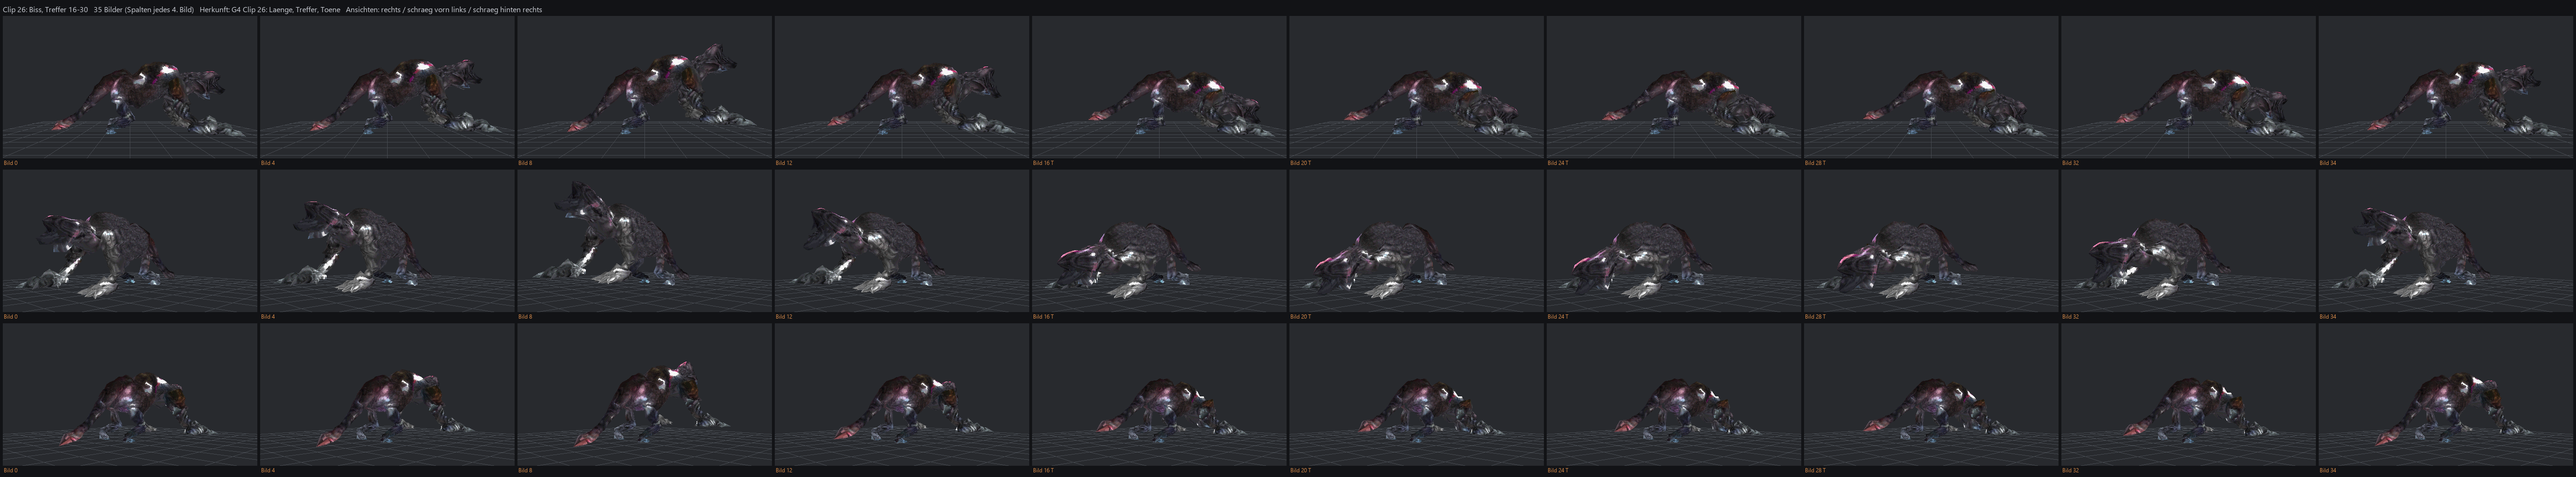
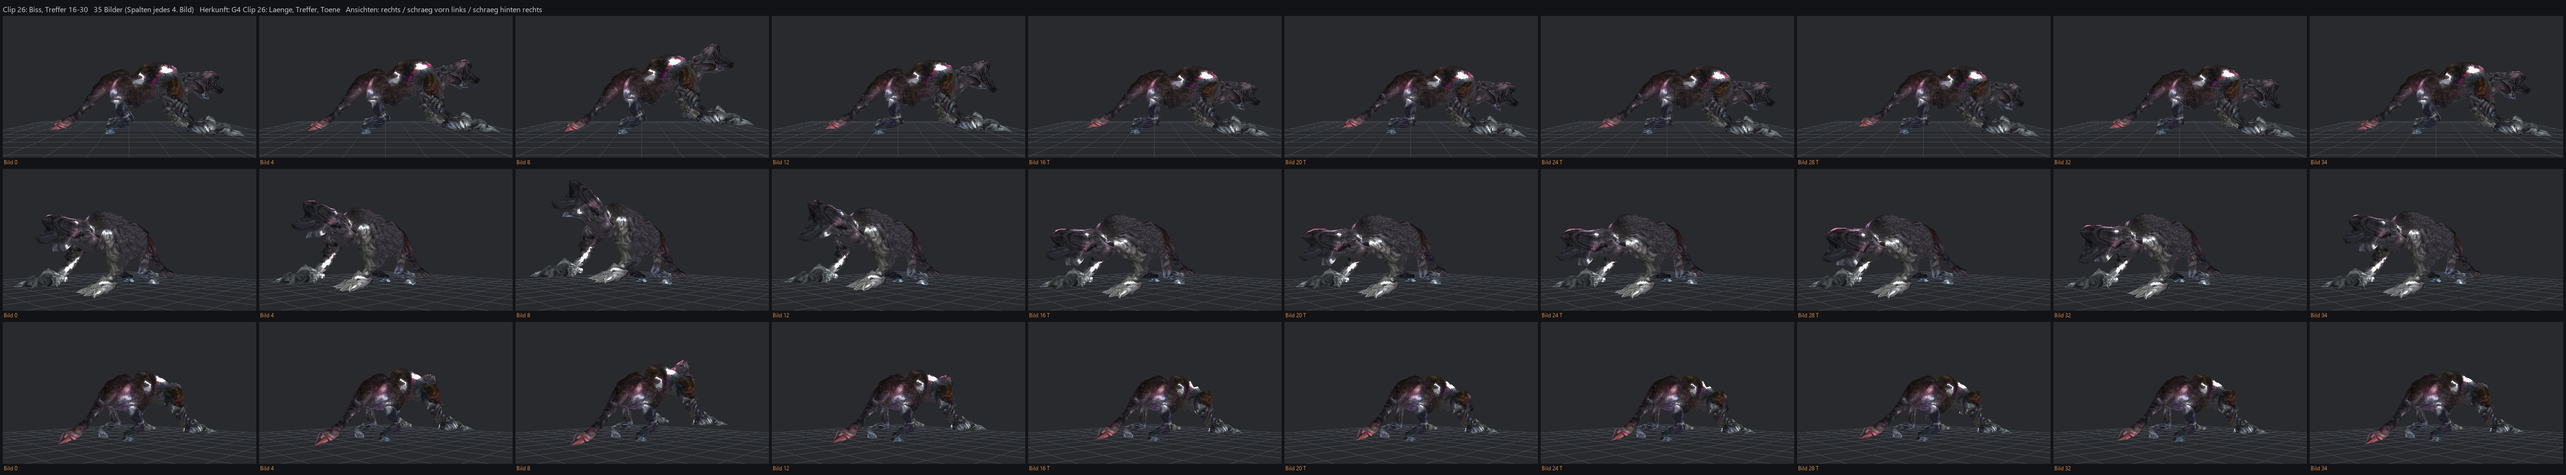
feat(form-s3): Asset mit Sturz/Drohen/Biss-Nachschliff im Spiel, Uebergabepunkt an den G5 benannt
- BAHNSTEIG_FORM.EMD neu aus dem Generator (stufe3/asset = shared_assets/RE2, md5 gleich): Sturz-Clip 12
  kippt hoechstens 22 Grad ueber Pose Bild 2 hinaus und faellt mit Fallkurve; Drohen je Bein eigenes
  Faltfenster (Gleiten 245 -> 23); Biss in Brusthoehe des Spielers (Kiefer y -1460 statt am Boden).
  Alles PORT-WAHL. form_j_posen.h unveraendert (Posen von J und Hoehe im Gehen gleich).
- birkin_formen.c: Uebergabe Riesenform -> G5 als eine Funktion bf_rs_form_ist_draussen (Ende Sturz-
  Clip 12 bzw. Wagenende ohne Riesenform), danach unveraendert Phase 2, re15_bf_morph_zu_g5, s_kam_g5.
  G5-Auftritt, G5-Kamera und enemy_ai_boss_g5.c nicht angefasst (Spur r41/g5auftritt setzt hier an).
- test_birkin_bahnsteig: Drohen Bild 33-38 bis 250 (gemessen 242).
- Sichtbeleg 5090 Sturz im echten Fenster mit dem neuen Asset (stufe3/spiel/5090_leon_3_sturz_detail.png).
- werkzeug.md: Hinweis auf BAHNSTEIG_FORM.
unit_birkin_bahnsteig und unit_birkin_szenen gruen (Bau re15_port/build_s3).

diff --git a/re15_port/engine/src/birkin_formen.c b/re15_port/engine/src/birkin_formen.c
@@ -407,6 +407,18 @@ uint16_t re15_bf_pad(uint16_t pad, uint16_t *pressed)
     return (uint16_t)(0x0800u | 0x8000u);                /* RE15_PAD_BIT_R1 | RE15_PAD_BIT_SQUARE, keine Richtung */
 }
 
+/* UEBERGABEPUNKT Riesenform -> G5 (Stufe 3, analysis/befunde_runde41/form/STUFE3.md Abschnitt 4).
+ * Wird genau einmal aufgerufen, wenn die Form den Wagen verlassen hat: mit der Riesenform am Ende ihres Sturz-Clips 12, ohne sie
+ * (EM30 per RE15_BIRKIN_FORM=original) am Wagenende. Danach laeuft unveraendert Phase 2 (Pause hinter dem Zug) und
+ * re15_bf_morph_zu_g5 + s_kam_g5. Der G5-Auftritt selbst (Kamera, Tentakel, enemy_ai_boss_g5.c) gehoert NICHT zu dieser Stufe,
+ * er wird im Zweig r41/g5auftritt neu gebaut und soll hier ansetzen. */
+static void bf_rs_form_ist_draussen(re15_actor_t *e, int mit_gebruell)
+{
+    s_rs.phase = 2; s_rs.t = 0;
+    e->no_draw = 1;
+    if (mit_gebruell) re15_audio_room_se(10);            /* Gebruell (Birkin-Todes-SE 10, @0x8011a744) */
+}
+
 static void bf_rueckstoss_tick(void)
 {
     if (s_rs.slot < 0) return;
@@ -433,20 +445,13 @@ static void bf_rueckstoss_tick(void)
             if (re15_bb_bank_da(e)) {                    /* Riesenform: faellt rueckwaerts aus dem Wagen (Clip 12, Stufe 3) */
                 s_rs.phase = 3;
                 re15_bb_sturz_start(s_rs.slot);
-            } else {
-                s_rs.phase = 2;
-                e->no_draw = 1;
-                re15_audio_room_se(10);                  /* Gebruell (Birkin-Todes-SE 10, @0x8011a744) */
-            }
+            } else bf_rs_form_ist_draussen(e, 1);
         }
         break;
     }
     case 3:                                              /* PORT-WAHL: Sturz-Clip am Zugende, Blick Cut 11 (= Bild 2) */
         bf_kamera(0x0B);
-        if (re15_bb_sturz_tick(s_rs.slot)) {
-            s_rs.phase = 2; s_rs.t = 0;
-            e->no_draw = 1;
-        }
+        if (re15_bb_sturz_tick(s_rs.slot)) bf_rs_form_ist_draussen(e, 0);   /* Gebruell traegt Clip 12 Bild 2 */
         break;
     case 2:
         bf_kamera(0x0B);

diff --git a/analysis/befunde_runde41/form/stufe3/gen/s3_angriffe.py b/analysis/befunde_runde41/form/stufe3/gen/s3_angriffe.py
@@ -440,9 +440,9 @@ def biss(bau):
     def vor(kiefer, gier=0.0):
         p = bau.p()
         p['wurzel'][0] += 520
-        bau.koerper(p, nick=12, hoch=-120)
-        bau.ruecken(p, nick=10, gier=gier * 0.3)
-        bau.kopf(p, nick=14, kiefer=kiefer, gier=gier)
+        bau.koerper(p, nick=5, hoch=-40)          # Biss in Brusthoehe des Spielers, nicht am Boden
+        bau.ruecken(p, nick=4, gier=gier * 0.3)
+        bau.kopf(p, nick=-2, kiefer=kiefer, gier=gier)
         bau.schwanz(p, hebung=-4, gier=gier * 0.5, phase=0.3)
         bau.boden_halten(p)
         return p

diff --git a/analysis/befunde_runde41/form/STUFE3.md b/analysis/befunde_runde41/form/STUFE3.md
@@ -105,7 +105,7 @@ Dieses Tempo liegt jetzt in Bild 53-60, die Summe (47) ist die von G4. Der Auftr
 (Gleiten <= 8 je Bild), Fuss rollt ab, Schwanz als Welle. Rennen = Sprunggalopp, Glieder je Bild per IK ueber Stuetzpunkte, Basis Pose
 Bild 1. Hiebe: Arm hoch und weit zur Seite, dann quer nach vorn unten; der Einstieg des Doppelschlags (Clip 3 Bild 20, Clip 4 Bild 7)
 liegt ausserhalb der Trefferprobe (Teil 13/18 Radius 1700, Versatz (0,600,0) Radius 1500, Spieler 2600 voraus, `s3_reichweite.py`),
-getroffen wird in Bild 28-30 bzw. 15-17. Biss: Kopf zurueck, Maul auf, Vorstoss, Schuetteln. Griff: beide Arme greifen (Krallen zu in
+getroffen wird in Bild 28-30 bzw. 15-17. Biss: Kopf zurueck, Maul auf, Vorstoss in Brusthoehe des Spielers (Kiefer bei y -1460), Schuetteln. Griff: beide Arme greifen (Krallen zu in
 Bild 8), Schleudern, Bruellen mit wechselnden Armen. Drohen: Hocke, Gebruell, Pose Bild 2, Aufbaeumen mit beiden Armen.
 
 **Grenzen, gemessen (`s3_pruef.py`):** tiefster Punkt <= 25 unter dem Boden ausser Rennen Bild 11 (Pose Bild 1 selbst: linker Fuss 334
@@ -129,6 +129,14 @@ Neu in Stufe 3 (PORT-WAHL nach E5/E6/E17; RE-Zahlen nur, wo genannt):
 
 Unveraendert: Schatten 2300 x 1300 (G4 @0x801002cc / @0x80100300) und Kastenversatz 800 (Gestaltung Spur R); die Form ist ohne Schwanz
 rund 3600 lang, Haende bei z +-1590. Opfer-Bank EM30. Teile 10/13/18 = Brust / Hand links / Hand rechts.
+
+**Uebergabe an den G5 (Abgrenzung zur Spur r41/g5auftritt, Vorgabe Orchestrator).** Diese Stufe baut in 5090 die Riesenform bis
+einschliesslich ihres Sturzes aus dem Zug. Der Uebergabepunkt ist EINE Funktion in birkin_formen.c:
+`bf_rs_form_ist_draussen(e, mit_gebruell)` - aufgerufen genau einmal, wenn die Form den Wagen verlassen hat (Riesenform: Ende von
+Sturz-Clip 12 in Rueckstoss-Phase 3; ohne Riesenform, z. B. `RE15_BIRKIN_FORM=original`: am Wagenende wie bisher, mit Gebruell). Sie
+setzt Phase 2 (Form unsichtbar, Pause `BF_RS_PAUSE`), danach laufen unveraendert `re15_bf_morph_zu_g5` und die Szenenkamera `s_kam_g5`.
+Nicht angefasst: G5-Auftritt, G5-Kamera, `enemy_ai_boss_g5.c`. Wer den neuen G5-Auftritt baut, setzt an `bf_rs_form_ist_draussen` an.
+Ablauf der Phasen in 5090: 1 Beschuss/Zurueckdraengen (Clip 8 im Kreis) -> 3 Sturz (Clip 12, Kamera Cut 11) -> Uebergabe -> 2 Pause -> G5.
 
 ## 5. Einbau und Tests
 

diff --git a/analysis/befunde_runde41/form/werkzeug.md b/analysis/befunde_runde41/form/werkzeug.md
@@ -2,6 +2,11 @@
 
 Die Figur selbst wird hier NICHT gestaltet. Commits auf r41/form: 93df3679a, 612f1453e, 40d9793e3, 84f88d080.
 
+⛔ Stand seit Stufe 3 (STUFE3.md): das Spiel laedt `RE2/BAHNSTEIG_FORM.EMD/.TIM` (Riesenform J mit eigenen Clips), `BAHNSTEIG_G4.*`
+ist aus dem Repo entfernt; `form_emd.py rundlauf`, `form_spiel.sh` und das Paket-Gate arbeiten mit dem neuen Namen. Die Messungen
+unten (Abschnitt 2 und 4) sind am G4-Muster entstanden und bleiben als Formatbeleg stehen. Die Festwerte aus Abschnitt 3 bedient die
+Form (Clipnummern, Laengen, Bit 16, Spur aus G4), die Tests pruefen das (`test_birkin_bahnsteig.c test_asset`).
+
 Werkzeuge in `re15_port/tools/`: `form_emd.py` (Bibliothek + Befehle), `form_buehne.py` (Offline-Buehne),
 `form_spiel.sh` + `form_fensterbild.ps1` (echtes Spiel), Test `re15_port/tests/unit/test_r41_form_emd.c` (`unit_r41_form_emd`).
 
